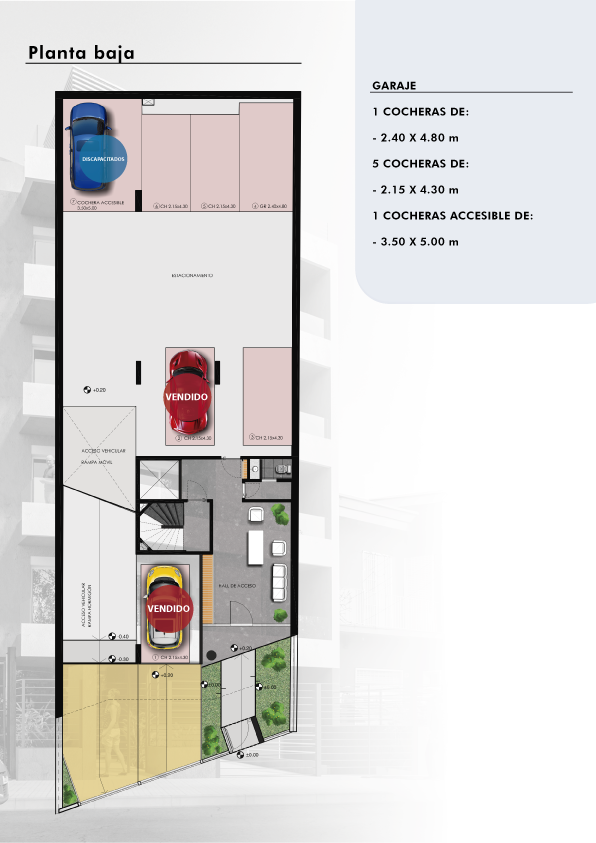
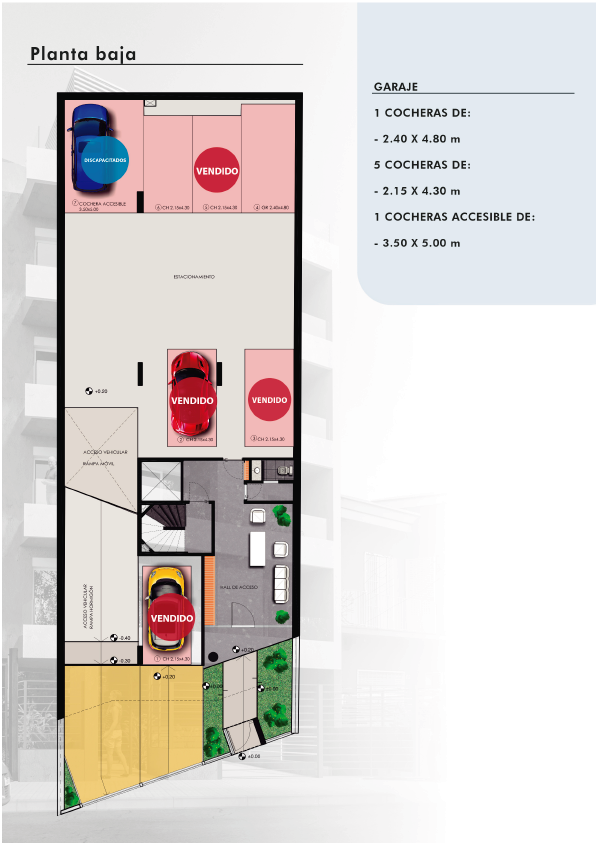
modificacion planos, iconos, textos, whatsapp y creacion de popup

diff --git a/web/verdi.html b/web/verdi.html
@@ -171,7 +171,7 @@
 				<div class="container mb-5">
 					<div class="portfolio-details-container row">
 						<div class="col-md-6 col-lg-5 mx-3 mx-lg-auto">
-							<h2 class="mt-3" style="border-bottom: 3px solid rgb(175, 75, 55); font-size: 28px">ÚLTIMA UNIDAD EN PROMOCIÓN</h2>
+							<h2 class="mt-3" style="border-bottom: 3px solid rgb(175, 75, 55); font-size: 28px">PROYECTO VENDIDO</h2>
 							<div class="mx-auto">
 								<p style="font-weight: bold">
 									En una zona que cuenta con excelentes conexiones hacia varios puntos de la ciudad de Montevideo, Salentis Verdi es un proyecto pensado para todo aquel que busca un ambiente cálido y confortable.
@@ -207,7 +207,7 @@
 							<div class="col-6 col-md-3 col-lg-2 mx-auto"><img src="./assets/img/unidades/verdi/Verdi_1uds.png" class="img-fluid p-1" alt="1uds" rel="preload"></div>
 							<div class="col-6 col-md-3 col-lg-2 mx-auto"><img src="./assets/img/unidades/verdi/Verdi_2uds.png" class="img-fluid p-1" alt="2uds" rel="preload"></div>
 							<div class="col-6 col-md-3 col-lg-2 mx-auto"><img src="./assets/img/unidades/verdi/Verdi_4uds.png" class="img-fluid p-1" alt="4uds" rel="preload"></div>
-							<div class="col-6 col-md-3 col-lg-2 mx-auto"><img src="./assets/img/unidades/verdi/Verdi_4uds_Ultima_unidad.png" class="img-fluid p-1" alt="4uds_ult_ud" rel="preload"></div>
+							<div class="col-6 col-md-3 col-lg-2 mx-auto"><img src="./assets/img/unidades/verdi/Verdi_4uds_agotadas.png" class="img-fluid p-1" alt="4uds_ult_ud" rel="preload"></div>
 							<div class="col-6 col-md-3 col-lg-2 mx-auto"><img src="./assets/img/unidades/verdi/Verdi_8uds.png" class="img-fluid p-1" alt="8uds" rel="preload"></div>
 						</div>
 				</div>
@@ -269,36 +269,6 @@
 				</div>
 			</section>
 			<!-- ======= End Galeria Section ======= -->
-
-			<!-- ======= Planos Section ======= -->
-			<section id="planos">
-				<div class="gallery">
-					<div class="container">
-						<div class="section-title">
-							<h2 class="mx-auto"><u style="text-underline-position: under; text-decoration-color:rgb(177,75,55);">DISTRIBUCIÓN DEL APARTAMENTO</u></h2>
-								<div class="container-fluid justify-content-center">
-									<div class="item col-10 col-md-8 col-lg-6 mx-auto litore-img">
-										<a href="./assets/img/planos/verdi/planosverdi-102-202-30-402.jpg" data-lightbox="blueprints" data-title="Apartamento de dos dormitorios con placard, dos baños completos, cocina definida y terraza de serv."><img src="./assets/img/planos/verdi/planosverdi-102-202-30-402.jpg" alt="plano_102_202" rel="preload" class="img-fluid"></a>
-                    <!--span><p>VER PLANO<br>102-402</p></span></a-->
-									</div>
-								</div>
-							</div>
-						</div>
-					</div>
-				</div>
-			</section>
-			<!-- End Planos Details Section -->
-
-			<!-- ======= Tour Section ======= -->
-			<div id="tour" class="container-md mt-4 mb-5">
-				<div class="section-title">
-					<h2 class="mx-auto"><u style="text-underline-position: under; text-decoration-color: rgb(233, 150, 56);">TOUR VIRTUAL DEL APARTAMENTO</u></h2>
-				</div>
-				<div class="col text-center">
-					<iframe src="https://storage.net-fs.com/hosting/6803938/4/" frameborder="0" allow="accelerometer; autoplay; clipboard-write; encrypted-media; gyroscope; picture-in-picture" allowfullscreen="" class="tour-virtual"></iframe>
-				</div>
-			</div>
-			<!-- ======= End Tour Section ======= -->
 
 			<!-- ======= Financiamiento Section ======= -->
 			<section id="financiamiento" style="background-color:rgb(203,132,58);">
@@ -466,7 +436,7 @@
 		<!-- ======= Whatsapp Section ======= -->
 		<div id="sy-whatshelp">
 			<div class="sywh-services">
-				<a href="https://api.whatsapp.com/send?phone=+59898630063&text=Hola Salentis, me gustaría más información sobre los proyectos" class="whatsapp" data-tooltip="Ventas Salentis" data-placement="left" target="_blank">
+				<a href="https://api.whatsapp.com/send?phone=+59898630063&text=Hola Salentis, me gustaría más información sobre el proyecto Verdi" class="whatsapp" data-tooltip="Ventas Salentis" data-placement="left" target="_blank">
 					<i class="fa fa-whatsapp"></i>
 				</a>
 				<a href="https://api.whatsapp.com/send?phone=+59899692977=&text=Hola, me gustaría más infomación sobre Salentis" class="whatsapp" data-tooltip="Administración" data-placement="left" target="_blank">

diff --git a/web/index.html b/web/index.html
@@ -329,7 +329,7 @@
 											</div>
 										</div>
 										<div class="btn-wrapper">
-											<button class="view-btn"><a href="novum.html" style="font-size:13px;">PRONTO PARA OCUPAR</a></button>
+											<button class="view-btn"><a href="novum.html" style="font-size:13px;">UNIDADES EN PROMOCIÓN</a></button>
 										</div>
 									</div>
 								</div>
@@ -352,7 +352,7 @@
 											</div>
 										</div>
 										<div class="btn-wrapper">
-											<button class="view-btn"><a href="verdi.html" style="font-size:13px;">UNIDADES EN PROMOCIÓN</a></button>
+											<button class="view-btn"><a href="verdi.html" style="font-size:13px;">VENDIDO</a></button>
 										</div>
 									</div>
 								</div>
@@ -602,5 +602,14 @@
 
 		<!-- Main JS File -->
 		<script src="assets/js/main.js"></script>
+
+		<script type="text/javascript">
+			$(document).ready(function() {
+				if (sessionStorage.getItem('popsalen') == null) {
+					$('#suscriptionModal').modal('show');
+					sessionStorage.setItem('popsalen', 'visto');
+				}
+		});
+   		</script>
 	</body>
 </html>

diff --git a/web/salentis.html b/web/salentis.html
@@ -331,7 +331,7 @@
 		<!-- ======= Whatsapp Section ======= -->
 		<div id="sy-whatshelp">
 			<div class="sywh-services">
-				<a href="https://api.whatsapp.com/send?phone=+59898630063&text=Hola Salentis, me gustaría más información sobre los proyectos" class="whatsapp" data-tooltip="Ventas Salentis" data-placement="left" target="_blank">
+				<a href="https://api.whatsapp.com/send?phone=+59898630063&text=Hola Salentis, me gustaría más información sobre el proyecto Salentis" class="whatsapp" data-tooltip="Ventas Salentis" data-placement="left" target="_blank">
 					<i class="fa fa-whatsapp"></i>
 				</a>
 				<a href="https://api.whatsapp.com/send?phone=+59899692977=&text=Hola, me gustaría más infomación sobre Salentis" class="whatsapp" data-tooltip="Administración" data-placement="left" target="_blank">

diff --git a/web/litore.html b/web/litore.html
@@ -469,7 +469,7 @@
 		<!-- ======= Whatsapp Section ======= -->
 		<div id="sy-whatshelp">
 			<div class="sywh-services">
-				<a href="https://api.whatsapp.com/send?phone=+59898630063&text=Hola Salentis, me gustaría más información sobre los proyectos" class="whatsapp" data-tooltip="Ventas Salentis" data-placement="left" target="_blank">
+				<a href="https://api.whatsapp.com/send?phone=+59898630063&text=Hola Salentis, me gustaría más información sobre el proyecto Litore" class="whatsapp" data-tooltip="Ventas Salentis" data-placement="left" target="_blank">
 					<i class="fa fa-whatsapp"></i>
 				</a>
 				<a href="https://api.whatsapp.com/send?phone=+59899692977=&text=Hola, me gustaría más infomación sobre Salentis" class="whatsapp" data-tooltip="Administración" data-placement="left" target="_blank">

diff --git a/web/novum.html b/web/novum.html
@@ -533,7 +533,7 @@
 		<!-- ======= Whatsapp Section ======= -->
 		<div id="sy-whatshelp">
 			<div class="sywh-services">
-				<a href="https://api.whatsapp.com/send?phone=+59898630063&text=Hola Salentis, me gustaría más información sobre los proyectos" class="whatsapp" data-tooltip="Ventas Salentis" data-placement="left" target="_blank">
+				<a href="https://api.whatsapp.com/send?phone=+59898630063&text=Hola Salentis, me gustaría más información sobre el proyecto Novum" class="whatsapp" data-tooltip="Ventas Salentis" data-placement="left" target="_blank">
 					<i class="fa fa-whatsapp"></i>
 				</a>
 				<a href="https://api.whatsapp.com/send?phone=+59899692977=&text=Hola, me gustaría más infomación sobre Salentis" class="whatsapp" data-tooltip="Administración" data-placement="left" target="_blank">
